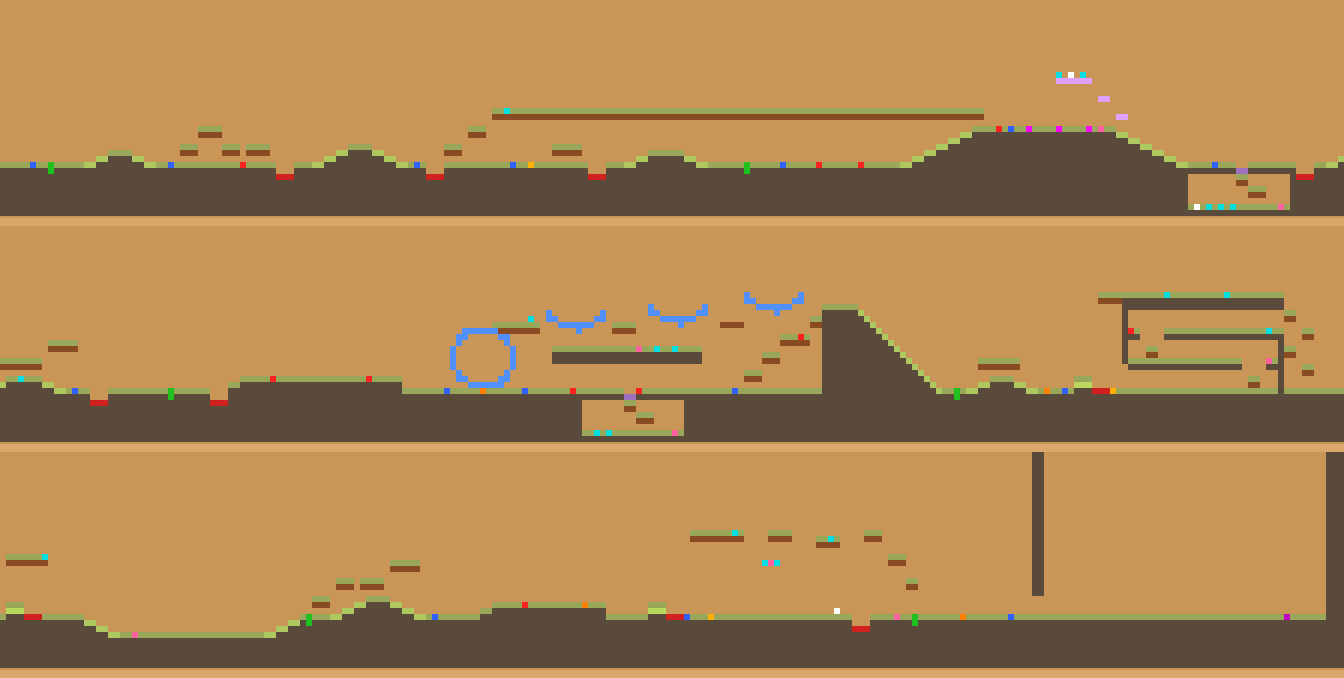
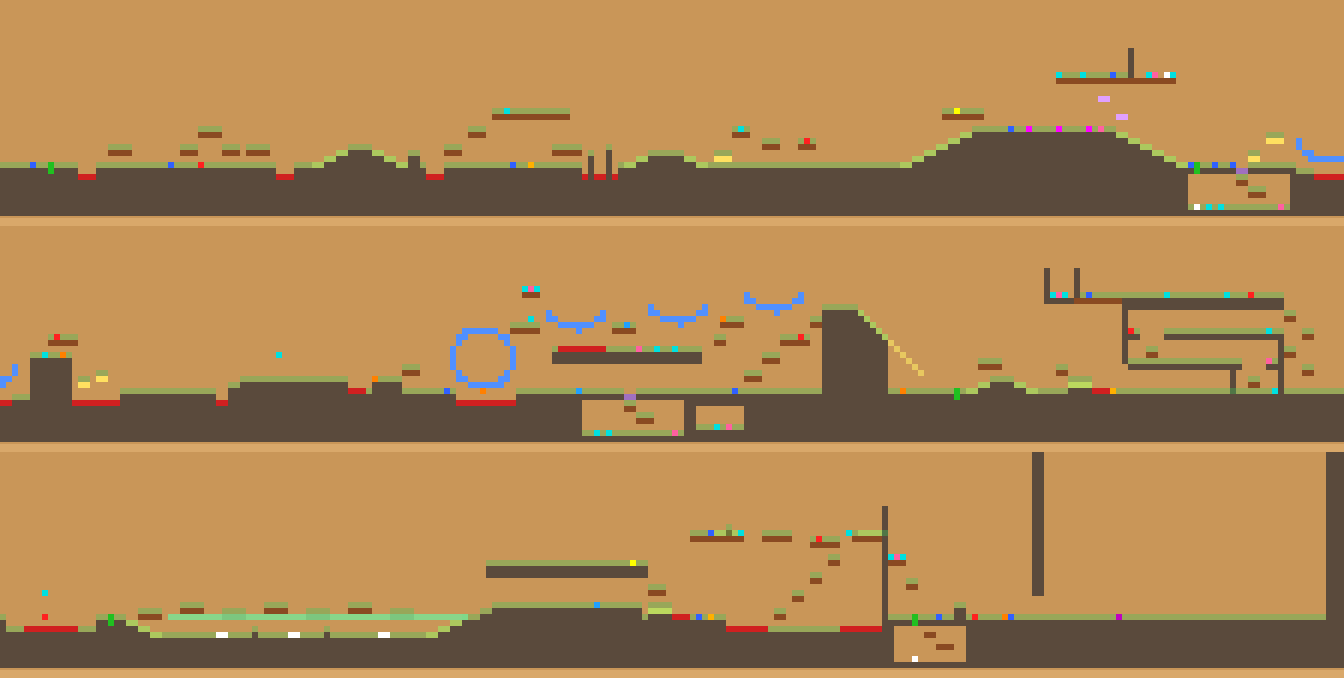
foevar2: cast-pass rows for towpath, canal, fair (+drop key)

diff --git a/src/cast-pass.js b/src/cast-pass.js
@@ -37,6 +37,26 @@ export const CAST_SWAPS = {
     { from: 'mummy', to: 'cutthroat', every: 2, min: 1 },                                            /* a tomb robber */
     { from: 'hound', fromSkin: 'jackal', to: 'vulture', every: 4, x1: 300, min: 2 },                 /* the outer court's carrion bird */
   ],
+  /* (claude/foevar2) THE WATER ROAD AND THE SHOW (foe-variety audit 11-10, lane F2): only foes the road has already introduced (one-new-foe stays green). Water-bound foes (eel, turtle, heron, feeler) are NOT placed: the
+     cast pass cannot give them water (they want a builder), and the grindylow stays in its water. The crossbow is the archer's own slot (it is a perched shooter), the sworn sword a bargee's weight (3.5 for 3.5). */
+  towpath: [
+    { from: "archer", fromSkin: "watchman", drop: ["tp"], to: "crossbow", every: 3, min: 2 },        /* the watch's own bolt on two of the six watchman perches (Waymeet's crossbow, a perched shooter) */
+    { from: "fogwraith", x0: 120, x1: 150, to: "runner", every: 1, min: 1 },                                  /* a squire in the yard: his shout fetches the sworn swords already on this bank (the other wraiths float over gaps and a runner needs floor, so they stay) */
+    { from: "fogwraith", x0: 300, to: "lanternshade", every: 3, min: 1 },                            /* a light without a keeper under the arches (tools/towpath.mjs wants >= 5 wraiths left: 7 - 2 = 5) */
+  ],
+  canal: [
+    { from: "archer", fromSkin: "watchman", drop: ["canal"], to: "crossbow", every: 4, x0: 50, min: 3 },   /* the harbour watch's bolt on a bridge or a roof */
+    { from: "gaffer", fromSkin: "bargeman", drop: ["canal"], to: "swornsword", every: 2, x0: 55, x1: 130, min: 2 },   /* hired steel on the first wharves (the boarding gang and the island garrison stay bargees) */
+    { from: "gaffer", fromSkin: "bargeman", drop: ["canal"], to: "swornsword", every: 3, x0: 180, x1: 300, min: 2 },
+    { from: "snuffer", fromSkin: "lamplighter", drop: ["canal"], to: "lanternshade", every: 2, min: 2 },     /* the lamplit canal's ghost with a lantern for two of the three lamplighters */
+  ],
+  fair: [
+    { from: "mummer", x0: 200, to: "stagehand", every: 4, min: 2 },                                    /* the fair's hired crew from the Theatre: the same 5 for 5 */
+    { from: "mummer", x0: 300, to: "armour", every: 6, min: 1 },                                      /* a tin-man in the hall of mirrors */
+    { from: "mummer", x0: 400, to: "haunt", every: 4, min: 1 },                                       /* the house of horrors */
+    { from: "mummer", x0: 500, to: "boo", every: 3, min: 1 },
+    { from: "brute", fromSkin: "strongman", to: "armour", every: 3, min: 2 },                         /* a suit of armour for the strongman's act: 3.5 for 3.5 */
+  ],
   kitchengate: [
     { from: 'sprig', to: 'thief', every: 3, min: 4 },          /* the larder thieves: five of the kitchen's fourteen plain sprigs */
     { from: 'rockgoblin', to: 'burngob', every: 2, min: 2 },    /* a cook already alight, in a kitchen: the first and the third rock-thrower */
@@ -82,9 +102,10 @@ export const PLAIN_KEYS = new Set(['t', 'x', 'y', 'face', 'squad', 'garrison']);
 export function castSwaps(L, id, report) {
   const rows = CAST_SWAPS[id]; if (!rows || !L || !L.ents) return L;
   for (const r of rows) {
-    const allow = r.fromSkin ? (r.allow || []).concat('cnSkin') : (r.allow || []);   /* (claude/foevar1) fromSkin: only foes in that reskin (and it may carry cnSkin) */
-    const hits = L.ents.filter(e => e.t === r.from && (!r.fromSkin || e.cnSkin === r.fromSkin) && e.x >= (r.x0 ?? -1e9) && e.x <= (r.x1 ?? 1e9) && Object.keys(e).every(k => PLAIN_KEYS.has(k) || allow.includes(k))).sort((a, b) => a.x - b.x || a.y - b.y);
-    let n = 0; hits.forEach((e, i) => { if (i % r.every === 0) { e.t = r.to; if (r.skin) e.cnSkin = r.skin; else if (r.fromSkin) delete e.cnSkin; n++; } });
+    const allow = (r.allow || []).concat(r.drop || [], r.fromSkin ? ["cnSkin"] : []);   /* (claude/foevar1) fromSkin: only foes in that reskin (and it may carry cnSkin); (claude/foevar2) drop: role objects (canal / tp) that are allowed on the foe and DELETED when it is swapped, so a watchman or bargee that becomes another foe keeps no stale role; the skin may sit on e.canal.cnSkin too */
+    const skinOf = e => e.cnSkin || (e.canal && e.canal.cnSkin);
+    const hits = L.ents.filter(e => e.t === r.from && (!r.fromSkin || skinOf(e) === r.fromSkin) && e.x >= (r.x0 ?? -1e9) && e.x <= (r.x1 ?? 1e9) && Object.keys(e).every(k => PLAIN_KEYS.has(k) || allow.includes(k))).sort((a, b) => a.x - b.x || a.y - b.y);
+    let n = 0; hits.forEach((e, i) => { if (i % r.every === 0) { e.t = r.to; for (const k of r.drop || []) delete e[k]; if (r.skin) e.cnSkin = r.skin; else if (r.fromSkin) delete e.cnSkin; n++; } });
     if (report) report.push({ id, from: r.from, to: r.to, swapped: n, min: r.min || 1 });
   }
   return L;
